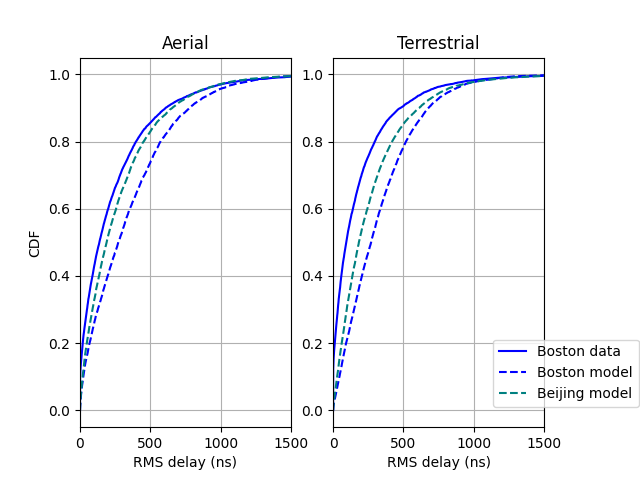
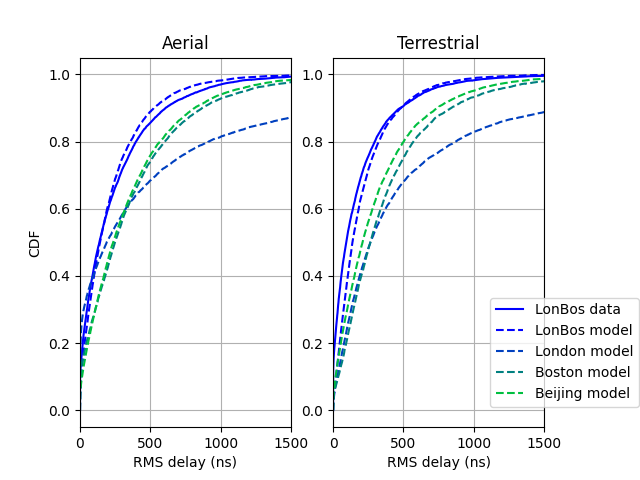
update plots

diff --git a/projects/uav_nn/plot_dly_cdf.py b/projects/uav_nn/plot_dly_cdf.py
@@ -41,7 +41,7 @@ Parse arguments from command line
 parser = argparse.ArgumentParser(description='Plots the omni directional path loss CDF')
 parser.add_argument(\
     '--plot_dir',action='store',\
-    default='plots', help='directory for the output plots')    
+    default='../../plots', help='directory for the output plots')    
 parser.add_argument(\
     '--plot_fn',action='store',\
     default='dly_cdf.png', help='plot file name')        
@@ -77,16 +77,21 @@ model_city_dict  = {\
     'LonTok': ('uav_lon_tok', None), # OK\
     'Beijing': ('uav_beijing',None), # OK\
     'Boston': ('uav_boston',None),  # Good\    
-    'Moscow': ('uav_moscow',None)}  # Good
-    
-    
+    'Moscow': ('uav_moscow',None),  # Good
+    'London': ('uav_london', None),
+    'LonBos': ('uav_lon_bos', None)
+}
+
 # Dictionaries looking up the dataset for each city  
 ds_city_dict = {\
     'LonTok': 'uav_lon_tok',\
     'Beijing': 'uav_beijing',\
     'Boston':  'uav_boston',\
-    'Moscow':  'uav_moscow'    }   
-    
+    'Moscow':  'uav_moscow',\
+    'London': 'uav_london',\
+    'LonBos': 'uav_lon_bos'
+}
+
 use_true_ls = False
     
      
